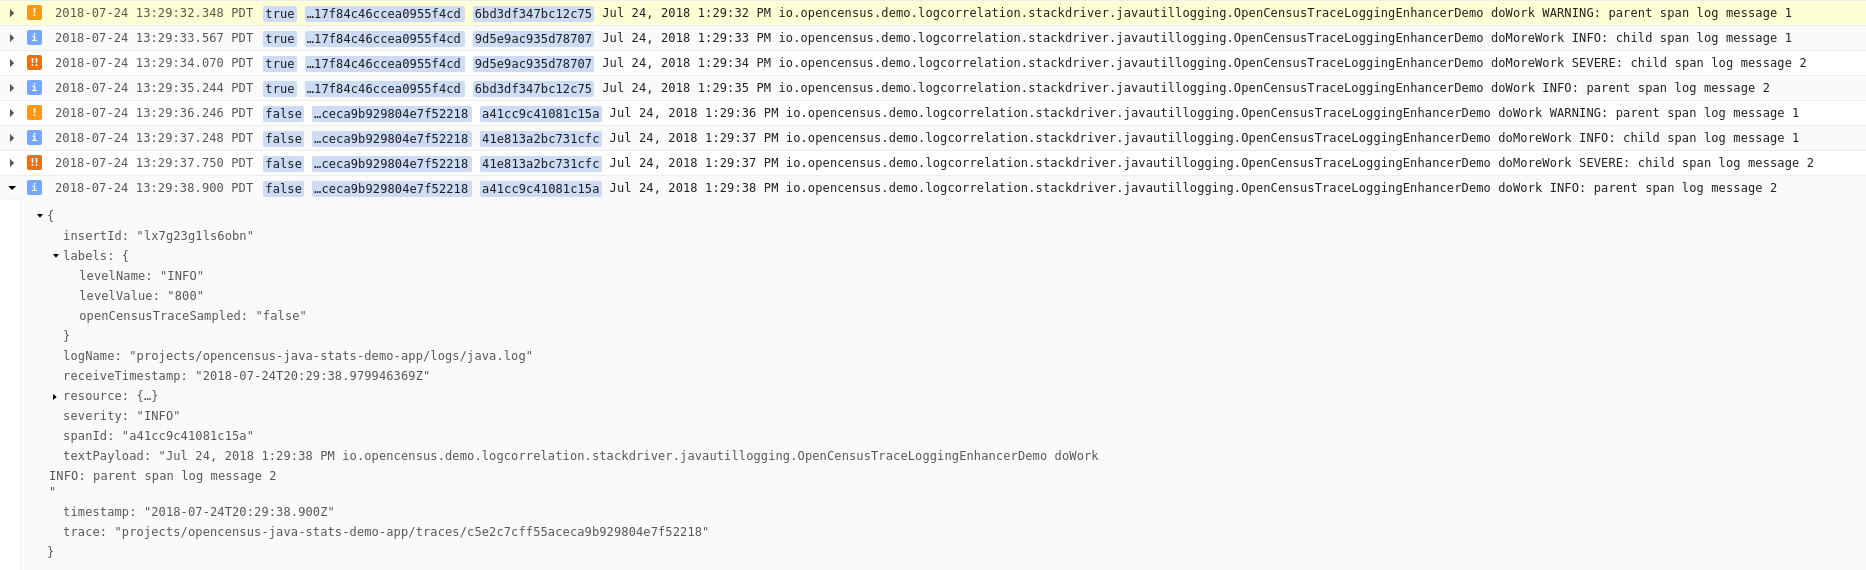
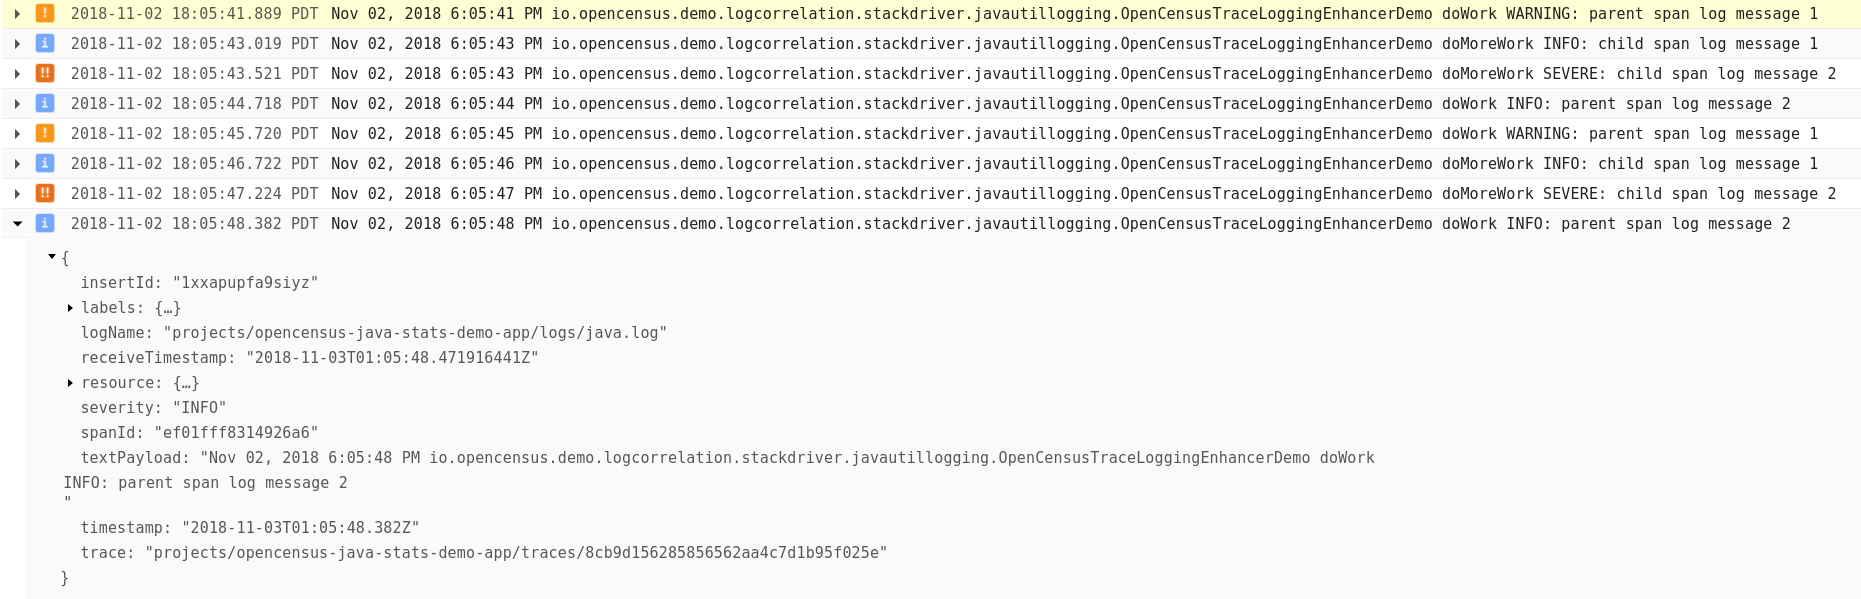
Update java.util.logging log correlation demo for opencensus-java 0.17.0. (#71)
opencensus-java 0.17.0 removed the "span selection" feature and the
"traceSampled" custom label.

Changed region(s): [[0.0, 0.0, 0.9973, 0.9544]]

diff --git a/java/log_correlation/stackdriver/java_util_logging/README.md b/java/log_correlation/stackdriver/java_util_logging/README.md
@@ -18,6 +18,6 @@ Sampled trace in Stackdriver, with log entries displayed below each span:
 
 ![Traces](images/trace.png "Example trace in Stackdriver")
 
-Log entries containing "trace", "spanId", and "opencensusTraceSampled" fields in Stackdriver:
+Log entries containing "trace" and "spanId" fields in Stackdriver:
 
 ![Logs](images/logs.png "Example logs in Stackdriver")
